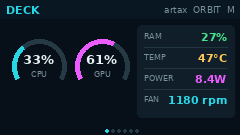
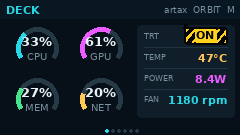
Add live Tensor Core activity indicator

diff --git a/jetson_stats_pitft/ui.py b/jetson_stats_pitft/ui.py
@@ -194,6 +194,24 @@ class DashboardUI:
         draw.text((cx, cy - 7), f"{value:.0f}%", font=F13, fill=self.theme.text, anchor="mm")
         draw.text((cx, cy + 8), label, font=F10, fill=self.theme.muted, anchor="mm")
 
+    @staticmethod
+    def _hazard_on(draw: ImageDraw.ImageDraw, box: tuple[int, int, int, int]) -> None:
+        """Draw a theme-independent, high-visibility Tensor Core indicator."""
+        x0, y0, x1, y1 = box
+        yellow = "#ffd21f"
+        draw.rounded_rectangle(box, radius=3, fill=yellow)
+        height = y1 - y0
+        for bottom in range(x0 - 12, x1, 8):
+            top = bottom + 12
+            clipped_bottom = max(x0 + 1, bottom)
+            clipped_top = min(x1 - 1, top)
+            bottom_y = y1 - 1 - max(0, x0 + 1 - bottom) * height / 12
+            top_y = y0 + 1 + max(0, top - (x1 - 1)) * height / 12
+            draw.line((clipped_bottom, bottom_y, clipped_top, top_y), fill="#050505", width=4)
+        draw.rounded_rectangle((x0 + 11, y0 + 2, x1 - 11, y1 - 2), radius=2, fill=yellow)
+        draw.text(((x0 + x1) // 2, (y0 + y1) // 2), "ON", font=F11, fill="#050505", anchor="mm")
+        draw.rounded_rectangle(box, radius=3, outline="#050505", width=2)
+
     def _deck(self, draw: ImageDraw.ImageDraw, s: Snapshot) -> None:
         self._gauge(draw, (37, 48), 21, s.cpu_percent, self.theme.primary, "CPU")
         self._gauge(draw, (101, 48), 21, s.gpu_percent, self.theme.accent, "GPU")
@@ -201,7 +219,7 @@ class DashboardUI:
         self._gauge(draw, (101, 99), 21, s.network_percent, self.theme.warn, "NET")
         self._panel(draw, (137, 25, 234, 117))
         rows = (
-            ("RAM", f"{s.ram_percent:.0f}%", self.theme.success),
+            ("TRT", "", self.theme.success),
             ("TEMP", f"{s.hottest_temp:.0f}°C", self.theme.warn),
             ("POWER", f"{s.total_power_w:.1f}W", self.theme.accent),
             ("FAN", f"{s.fan_rpm} rpm", self.theme.primary),
@@ -209,7 +227,10 @@ class DashboardUI:
         for i, (label, value, color) in enumerate(rows):
             y = 31 + i * 21
             draw.text((144, y), label, font=F8, fill=self.theme.muted)
-            draw.text((227, y - 1), value, font=F11, fill=color, anchor="ra")
+            if i == 0 and s.tensor_active:
+                self._hazard_on(draw, (184, y - 4, 227, y + 13))
+            elif value:
+                draw.text((227, y - 1), value, font=F11, fill=color, anchor="ra")
             if i < 3:
                 draw.line((144, y + 16, 227, y + 16), fill=self.theme.divider)
 
@@ -285,6 +306,7 @@ def mock_snapshot() -> Snapshot:
         uptime_seconds=197340, disk_used=35_433_234_432, disk_total=57_982_058_496,
         network_interface="end0", ip_address="10.4.222.52",
         network_rx_bps=2_480_000, network_tx_bps=384_000, fan_rpm=1180,
+        tensor_active=True,
         network_link_mbps=100,
         nvpmodel="MODE_30W", l4t="R39.2.1", jetpack="7.2.1-b49",
         kernel="6.8.12-1021-tegra",

diff --git a/tests/test_metrics.py b/tests/test_metrics.py
@@ -4,7 +4,7 @@ from pathlib import Path
 import tempfile
 import unittest
 
-from jetson_stats_pitft.metrics import Snapshot, _fan_rpm, _find_fan_rpm_path
+from jetson_stats_pitft.metrics import Snapshot, _fan_rpm, _find_fan_rpm_path, _tensor_active
 
 
 class FanRpmTests(unittest.TestCase):
@@ -60,6 +60,23 @@ class SnapshotTests(unittest.TestCase):
         snapshot = Snapshot(network_rx_bps=1_000_000, network_link_mbps=0)
 
         self.assertEqual(snapshot.network_percent, 0.0)
+
+
+class TensorActivityTests(unittest.TestCase):
+    def test_recent_event_is_active(self) -> None:
+        with tempfile.TemporaryDirectory() as directory:
+            status = Path(directory) / "tensor-active"
+            status.write_text("1000\n", encoding="ascii")
+            self.assertTrue(_tensor_active(str(status), now=1001.5))
+
+    def test_stale_missing_and_invalid_events_are_dormant(self) -> None:
+        with tempfile.TemporaryDirectory() as directory:
+            status = Path(directory) / "tensor-active"
+            status.write_text("1000\n", encoding="ascii")
+            self.assertFalse(_tensor_active(str(status), now=1003.0))
+            status.write_text("not-a-time\n", encoding="ascii")
+            self.assertFalse(_tensor_active(str(status), now=1000.0))
+            self.assertFalse(_tensor_active(str(status.with_name("missing")), now=1000.0))
 
 
 if __name__ == "__main__":

diff --git a/jetson_stats_pitft/metrics.py b/jetson_stats_pitft/metrics.py
@@ -46,6 +46,7 @@ class Snapshot:
     network_tx_bps: float = 0.0
     network_link_mbps: int = 0
     fan_rpm: int = 0
+    tensor_active: bool = False
     nvpmodel: str = "unknown"
     l4t: str = "unknown"
     jetpack: str = "unknown"
@@ -251,6 +252,20 @@ def _fan_rpm(path: str) -> int:
         return 0
 
 
+def _tensor_active(
+    path: str = "/run/jetson-stats-pitft/tensor-active",
+    hold_seconds: float = 2.0,
+    now: float | None = None,
+) -> bool:
+    """Hold the latest Tensor Core event on-screen long enough to see it."""
+    try:
+        event_time = float(_read_text(path))
+    except ValueError:
+        return False
+    age = (time.time() if now is None else now) - event_time
+    return -0.5 <= age <= hold_seconds
+
+
 class MetricCollector:
     def __init__(self, interval_ms: int = 500):
         self.tegrastats = TegrastatsReader(interval_ms)
@@ -340,6 +355,7 @@ class MetricCollector:
             network_tx_bps=tx_bps,
             network_link_mbps=self._cached_network_mbps,
             fan_rpm=_fan_rpm(self._fan_rpm_path),
+            tensor_active=_tensor_active(),
             nvpmodel=self.nvpmodel,
             l4t=self.l4t,
             jetpack=self.jetpack,

diff --git a/jetson_stats_pitft/__init__.py b/jetson_stats_pitft/__init__.py
@@ -1,3 +1,3 @@
 """Jetson telemetry dashboard for the Adafruit Mini PiTFT."""
 
-__version__ = "0.4.0"
+__version__ = "0.5.0"

diff --git a/README.md b/README.md
@@ -11,8 +11,8 @@ Wayland, browser, or heavyweight dashboard process.
 
 The encoder and two front buttons move through six live pages:
 
-1. **Deck** — CPU, GPU, memory, and network-utilization gauges plus temperature,
-   power, fan speed, and detailed values
+1. **Deck** — CPU, GPU, memory, and network-utilization gauges plus live Tensor
+   Core activity, temperature, power, and fan speed
 2. **CPU** — all 12 cores, aggregate utilization, load, and a sparkline
 3. **GPU** — GR3D load, board power, temperature, and history
 4. **Memory** — RAM, swap, and root filesystem capacity
@@ -43,6 +43,14 @@ NVIDIA's `pwm_tach/rpm` layout are supported without depending on an unstable
 `hwmon` number. Static identity and slow-changing paths and network details are
 cached. The default screen update is 2 Hz while GPIO input is sampled
 independently at 200 Hz.
+
+The Deck's **TRT** row is intentionally blank while Tensor Cores are dormant.
+A yellow-and-black striped **ON** badge appears when the CUPTI PM-sampling
+sentinel observes a meaningful increase in GA10B tensor-pipeline instructions.
+The root-owned sentinel is separate from the unprivileged dashboard because the
+Jetson performance-counter device is restricted; only an event timestamp is
+shared through `/run`. Stop `jetson-tensor-sentinel.service` before using Nsight
+Compute, since both tools need exclusive access to the GPU performance counters.
 The SPI clock defaults to the signal-integrity-tested 4 MHz; the tiny frame is
 still transferred quickly at that conservative rate.
 
@@ -147,6 +155,8 @@ The installer:
 - creates `/opt/jetson-stats-pitft/venv` using system packages;
 - installs a guarded boot-time helper for the five input pads;
 - enables `agx-orin-pitft-input-pinmux.service`;
+- builds and enables the lightweight CUPTI Tensor Core sentinel when the CUDA
+  development files are installed;
 - enables and starts `jetson-stats-pitft.service` as the invoking user.
 
 The SPI pinmux service from AGX-Orin-SPI1 should already be enabled. Check the
@@ -154,6 +164,7 @@ dashboard with:
 
 ```bash
 systemctl status jetson-stats-pitft.service
+journalctl -u jetson-tensor-sentinel.service -f
 journalctl -u jetson-stats-pitft.service -f
 ```
 
